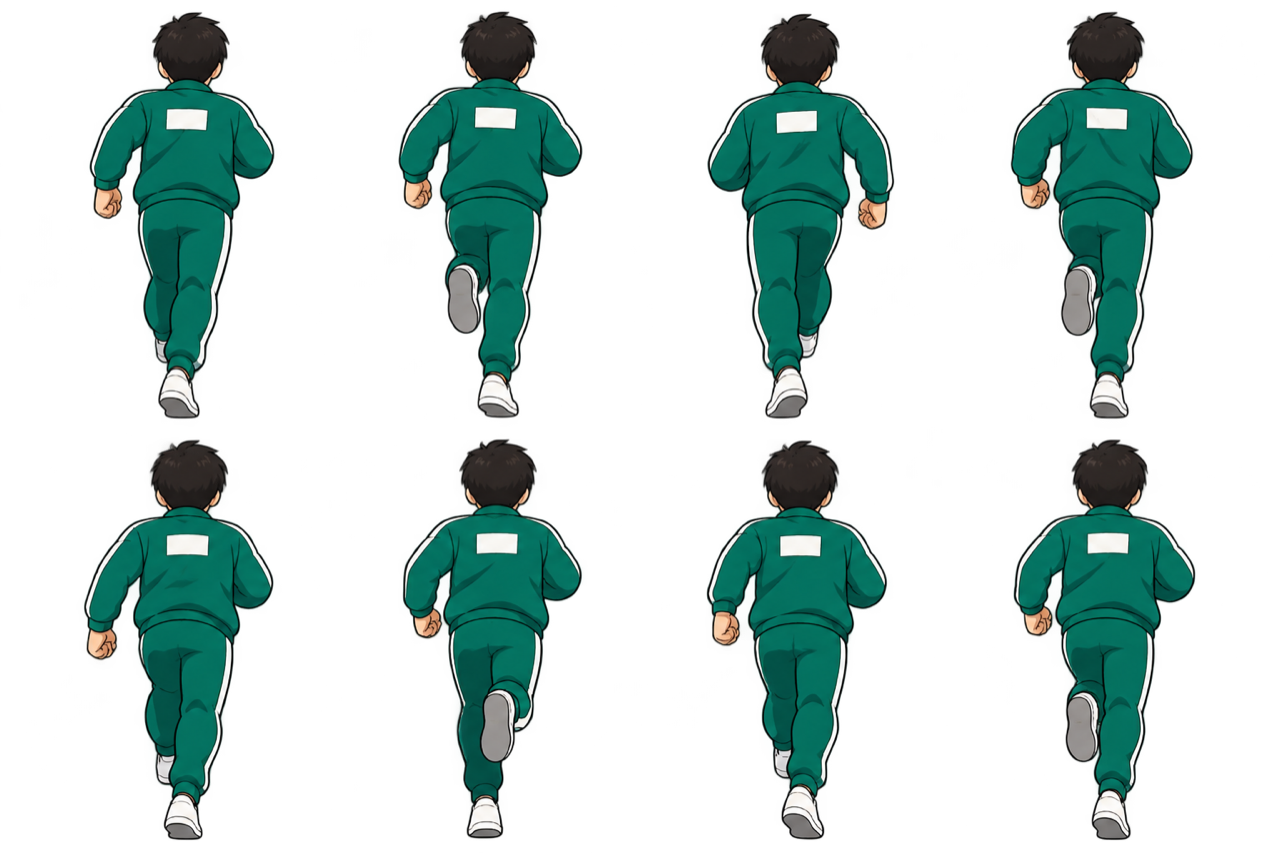
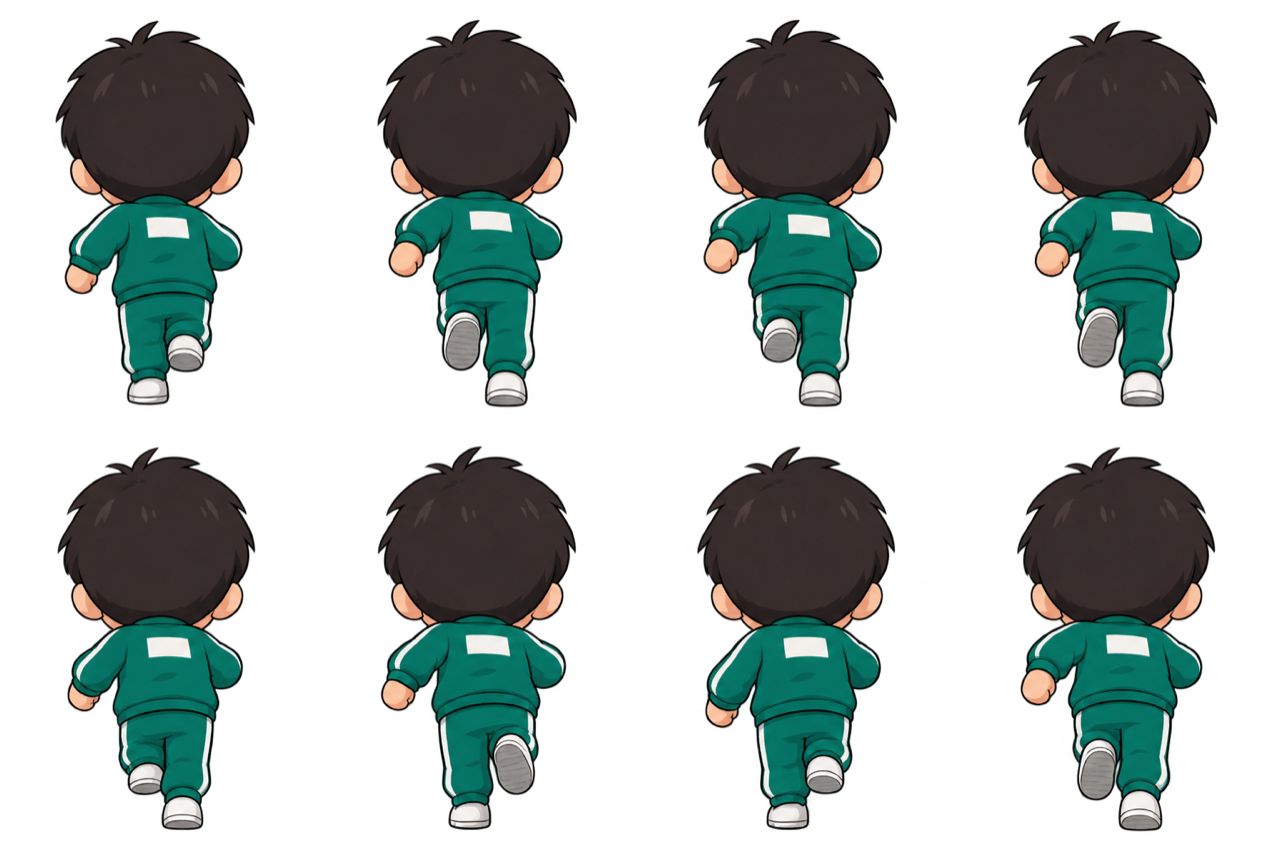
Red Light Green Light: chibi character sprite sheets

diff --git a/games/red-light-green-light/index.js b/games/red-light-green-light/index.js
@@ -2348,7 +2348,7 @@ IGB.register('red-light-green-light', function RedLightGreenLightGame(stage, pla
 
 	/* ---------- character sprite sheets ---------- */
 
-	// Drawn in ChatGPT (see assets/red-light-green-light/prompts.md): each an
+	// Drawn in ChatGPT, chibi (see assets/red-light-green-light/prompts.md): each an
 	// even grid, 4 across and 2 down, a frame centred in each cell with the
 	// feet on the row's baseline. Cut up once when they load: each frame
 	// trimmed to what's in it, remembering where it sat over its cell's centre
@@ -2621,11 +2621,9 @@ IGB.register('red-light-green-light', function RedLightGreenLightGame(stage, pla
 	// narrows toward the edge and goes out of sight round the back.
 	function dollHead(c, yaw, glare) {
 		if (sheets.head) {
-			// how far round to face us (1) from facing away (0); the sheet's turn
-			// bunches up near her face, so its last steps are skipped
+			// how far round to face us (1) from facing away (0), in the sheet's 8 steps
 			const front = (1 + Math.cos(yaw)) / 2;
-			const STEPS = [0, 1, 2, 3, 7];
-			const i = STEPS[Math.round(front * (STEPS.length - 1))];
+			const i = Math.round(front * 7);
 			const f = sheets.head.frames[i];
 			if (f) {
 				const k = SPRITE.head / sheets.head.unit;

diff --git a/assets/red-light-green-light/prompts.md b/assets/red-light-green-light/prompts.md
@@ -151,3 +151,14 @@ Notes: generated 2026-10-16 in one ChatGPT chat, then shrunk to 1280x853
 with sips. Each sheet is an even 2x4 grid, so frame n (0-7) is the cell at
 column n % 4, row floor(n / 4). The doll's turn bunches up: frames 4-7 are all
 nearly face-on. They aren't used by the game yet.
+
+## Chibi versions (these replaced the sheets above, same file names)
+
+Regenerated the same day with CHIBI proportions, the same seven sheets and
+layouts. The shared style gained: "with CHIBI proportions: a big round head
+about as tall as the whole body below it (the head is roughly 45% of the
+total height), a short compact body, short stubby arms and legs, small hands
+and feet". Each character prompt says "a chibi ..." too. The doll's head
+asked for 8 EVEN steps (back, back three-quarter, nearly side-on from behind,
+exact profile, side just showing the face, front three-quarter, nearly face
+on, face on), which fixed the bunching, so the game uses all eight.
